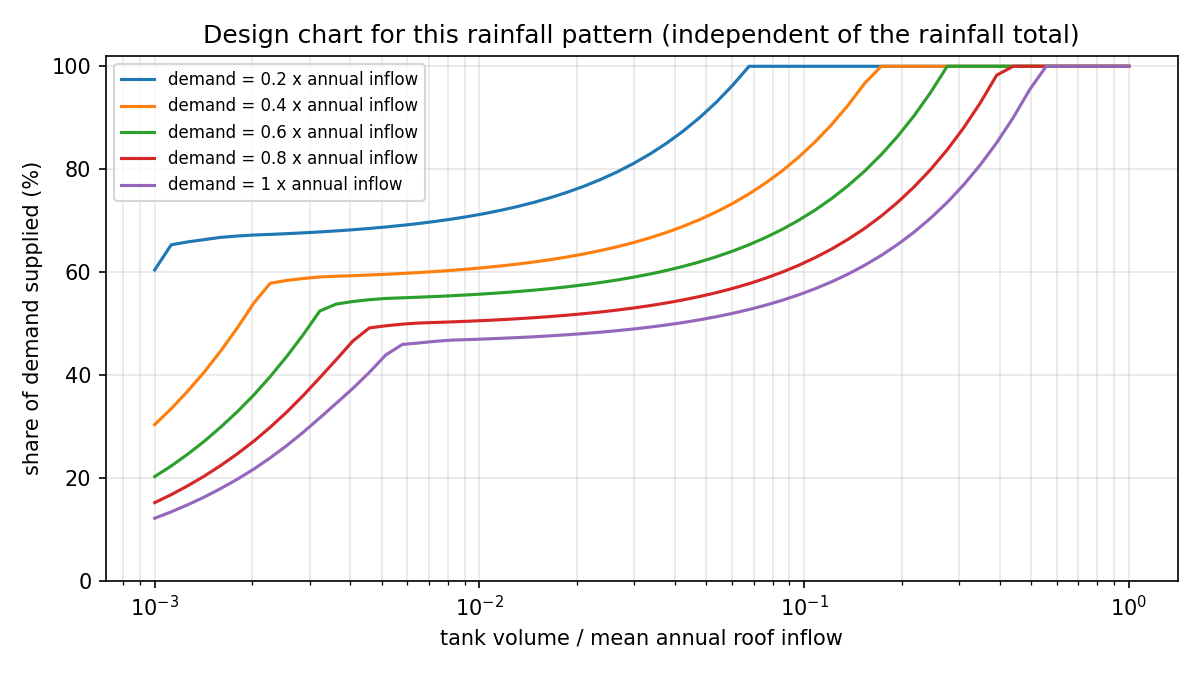
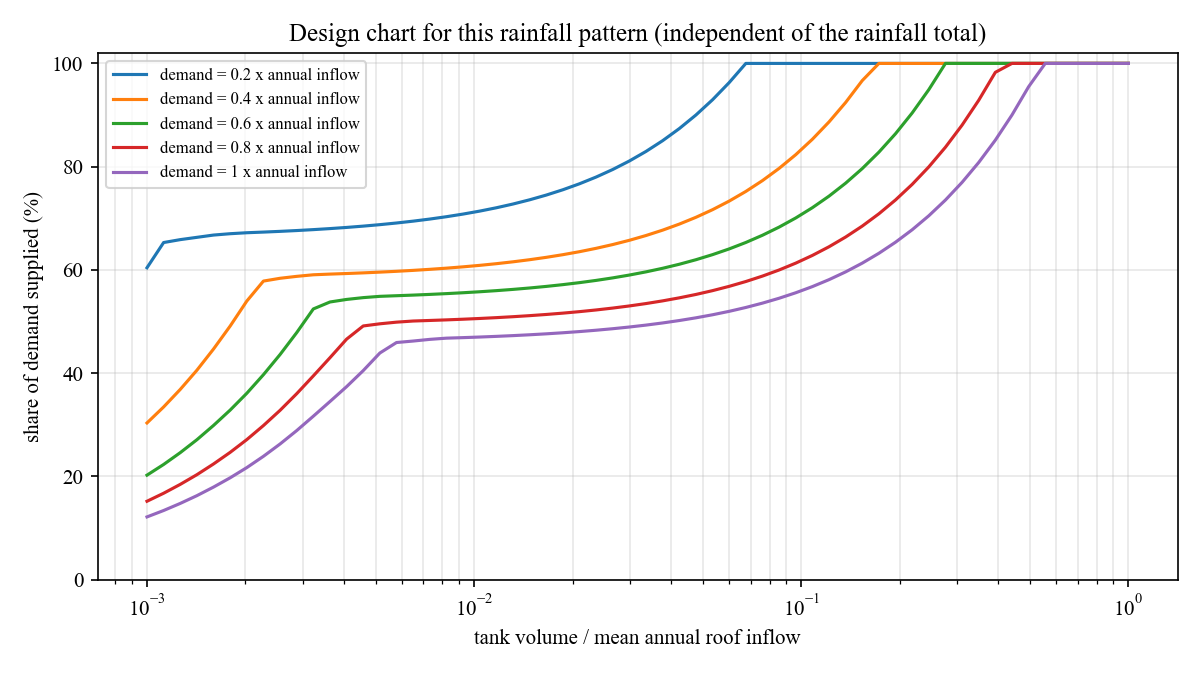
Draw the figures in Times New Roman

diff --git a/run_analysis.py b/run_analysis.py
@@ -17,6 +17,9 @@ from rwh import (daily_rainfall, design_chart, load_hourly_rainfall, load_roofto
                  rainfall_statistics, record_years, rescale_to_annual_total, roof_inflow, simulate, smallest_capacity)
 from rwh.data import SEASON_ORDER, WET_DAY_MM, WORLD_RECORD_ANNUAL_MM
 
+# Liberation Serif has the metrics of Times New Roman and stands in where that font is not installed
+plt.rcParams.update({"font.family": "serif", "font.serif": ["Times New Roman", "Liberation Serif", "DejaVu Serif"]})
+
 HERE = Path(__file__).resolve().parent
 PLOTS, RESULTS = HERE / "plots", HERE / "results"
 MONTHS = ["Jan", "Feb", "Mar", "Apr", "May", "Jun", "Jul", "Aug", "Sep", "Oct", "Nov", "Dec"]
